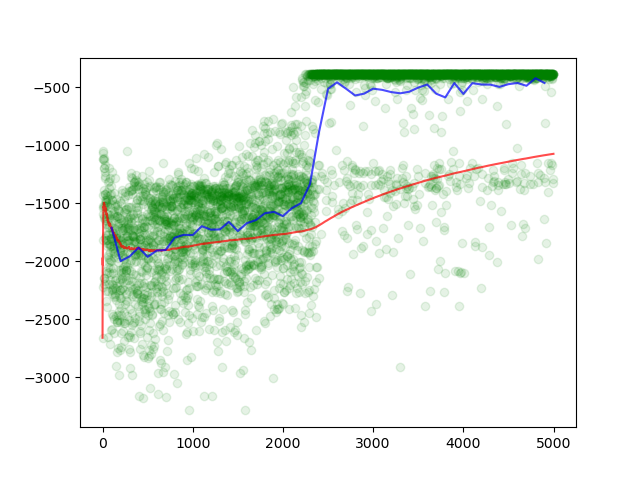
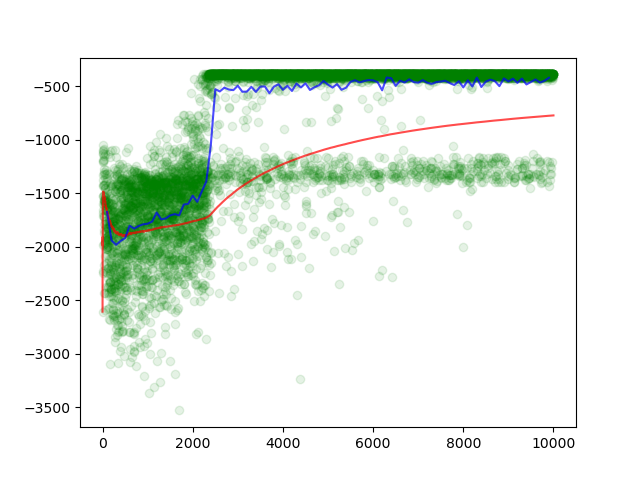
basic part is done

diff --git a/Q_learing.py b/Q_learing.py
@@ -9,7 +9,7 @@ import matplotlib.pyplot as plt
 class QAgent(object):
     def __init__(self):
         self.action_space = [1,2,3,4]
-        self.V = np.full((6, 14), -math.inf)
+        # self.V = np.full((6, 14), -math.inf)
         self.Q = defaultdict(lambda: np.zeros(len(self.action_space)))
         self.discount_factor=0.99
         self.alpha=0.5
@@ -48,7 +48,7 @@ if __name__ == '__main__':
     teminated = False
     rewards = []
     time_step = 0
-    num_iterations = 5000
+    num_iterations = 10000
     
     episode_rewards = []
     
@@ -73,22 +73,28 @@ if __name__ == '__main__':
         rewards = []
     
     plot_episode_rewards(episode_rewards, "episode_rewards.png")
-    '''
-    # V table
+    print(agent.Q[((5, 0), (4, 1))])
+    
+    # Q table
+    f = open("test_log.txt", "w")
     test_step = 0
     env.reset()
     while not teminated:
         state = env.get_state()
         action = agent.action_space[np.argmax(agent.Q[state])]
-        print(action)
+        # print(action)
         reward, teminated, _ = env.step([action])
         next_state = env.get_state()
         rewards.append(reward)
-        print(f'step: {test_step}, actions: {action}, reward: {reward}')
+        print(f'step: {test_step}, state: {state}, Q: {agent.Q[state]}, actions: {action}, next state: {next_state}, reward: {reward}')
+        f.write(f'step: {test_step}, state: {state}, Q: {agent.Q[state]}, actions: {action}, next state: {next_state}, reward: {reward}\n')
         test_step += 1
         
-        agent.V[state[0][0],state[0][1]] = max(agent.Q[state]) if agent.V[state[0][0],state[0][1]] < max(agent.Q[state]) else agent.V[state[0][0],state[0][1]]
-        
     print(f'rewards: {sum(rewards)}')
-    print(np.around(agent.V, decimals=1))
-    '''
+    print(f'print the historical actions: {env.episode_actions}')
+    f.write(f'\nrewards: {sum(rewards)}\n')
+    f.write(f'print the historical actions: {env.episode_actions}\n')
+    f.close()
+    
+    
+    
